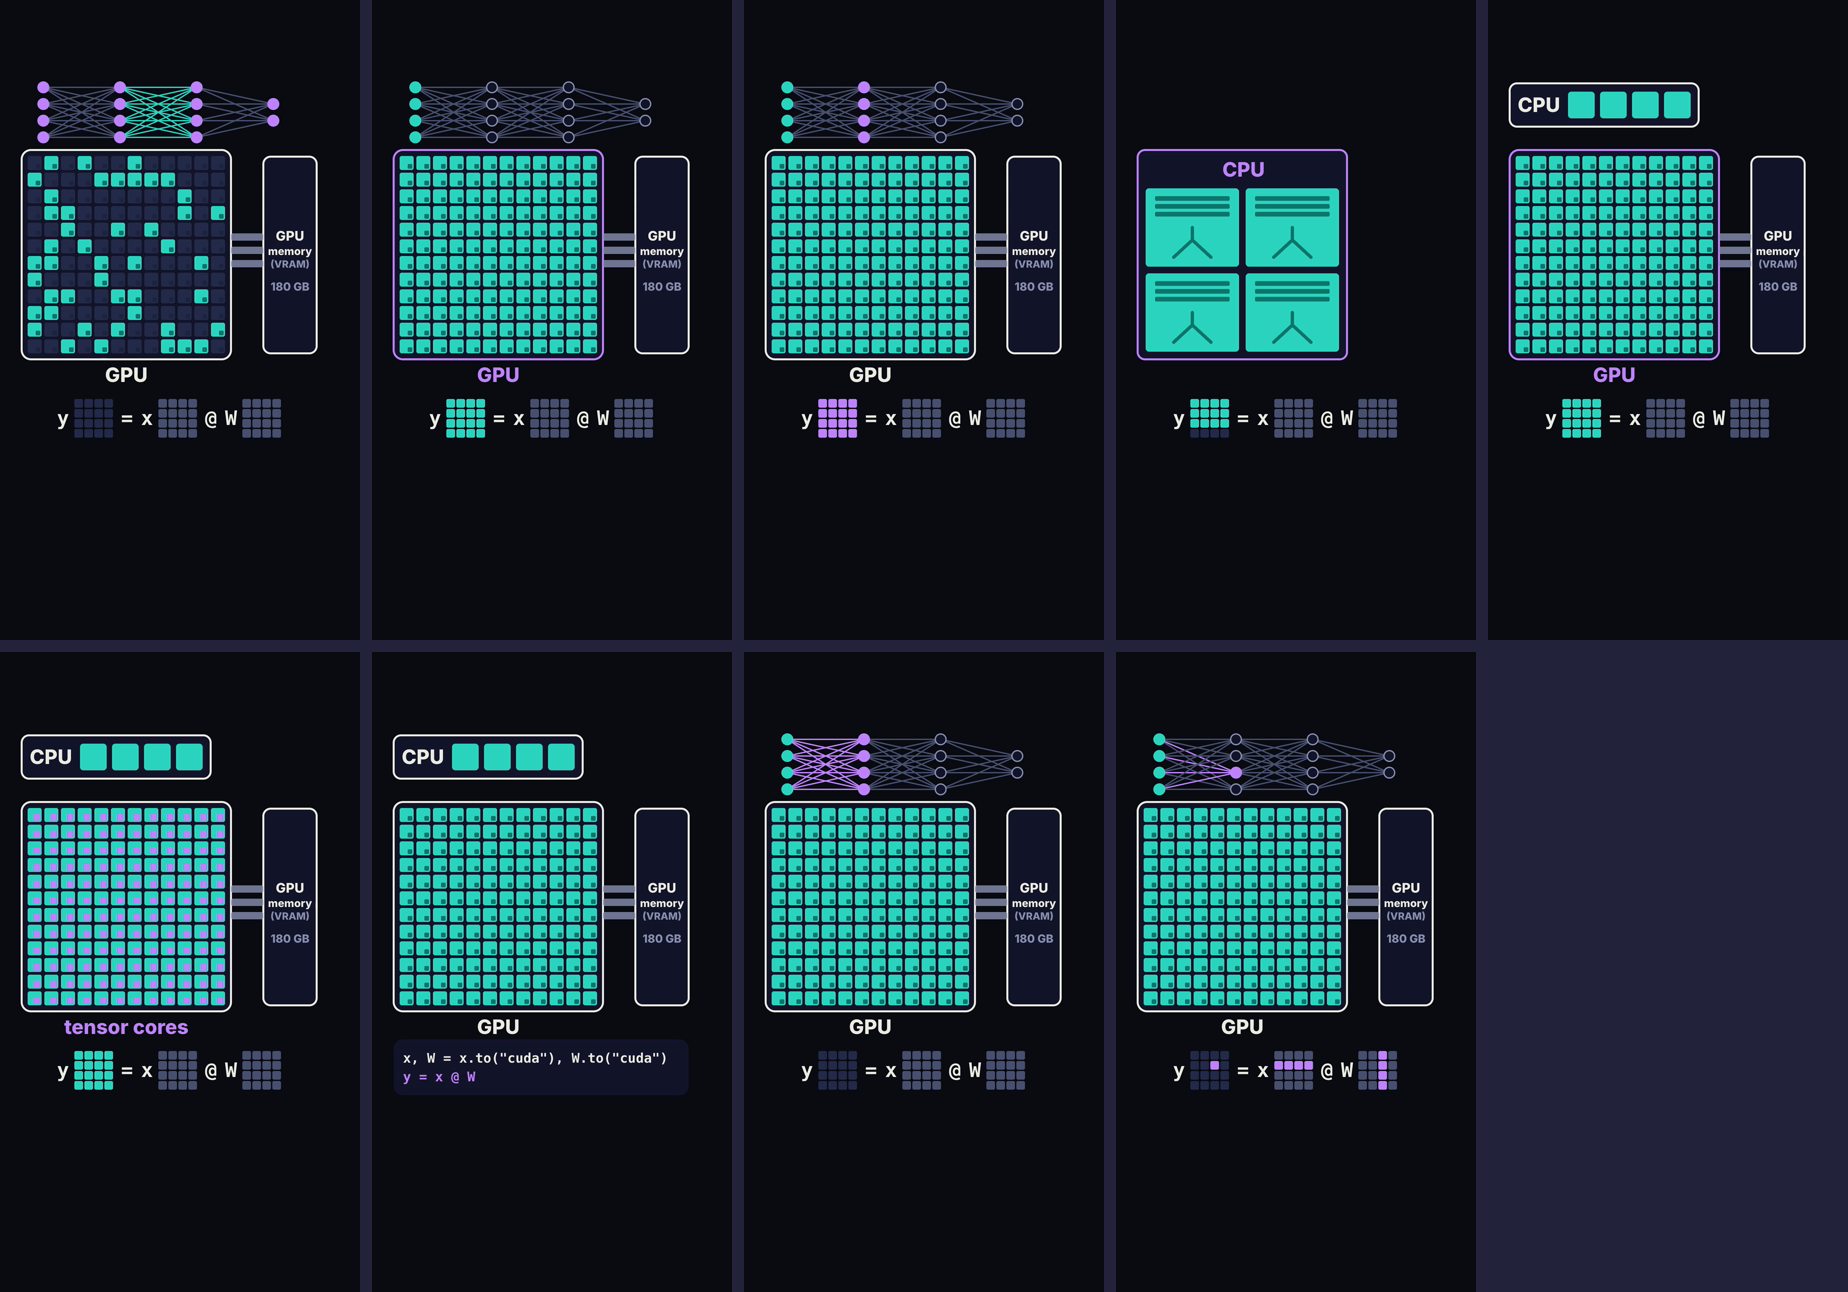
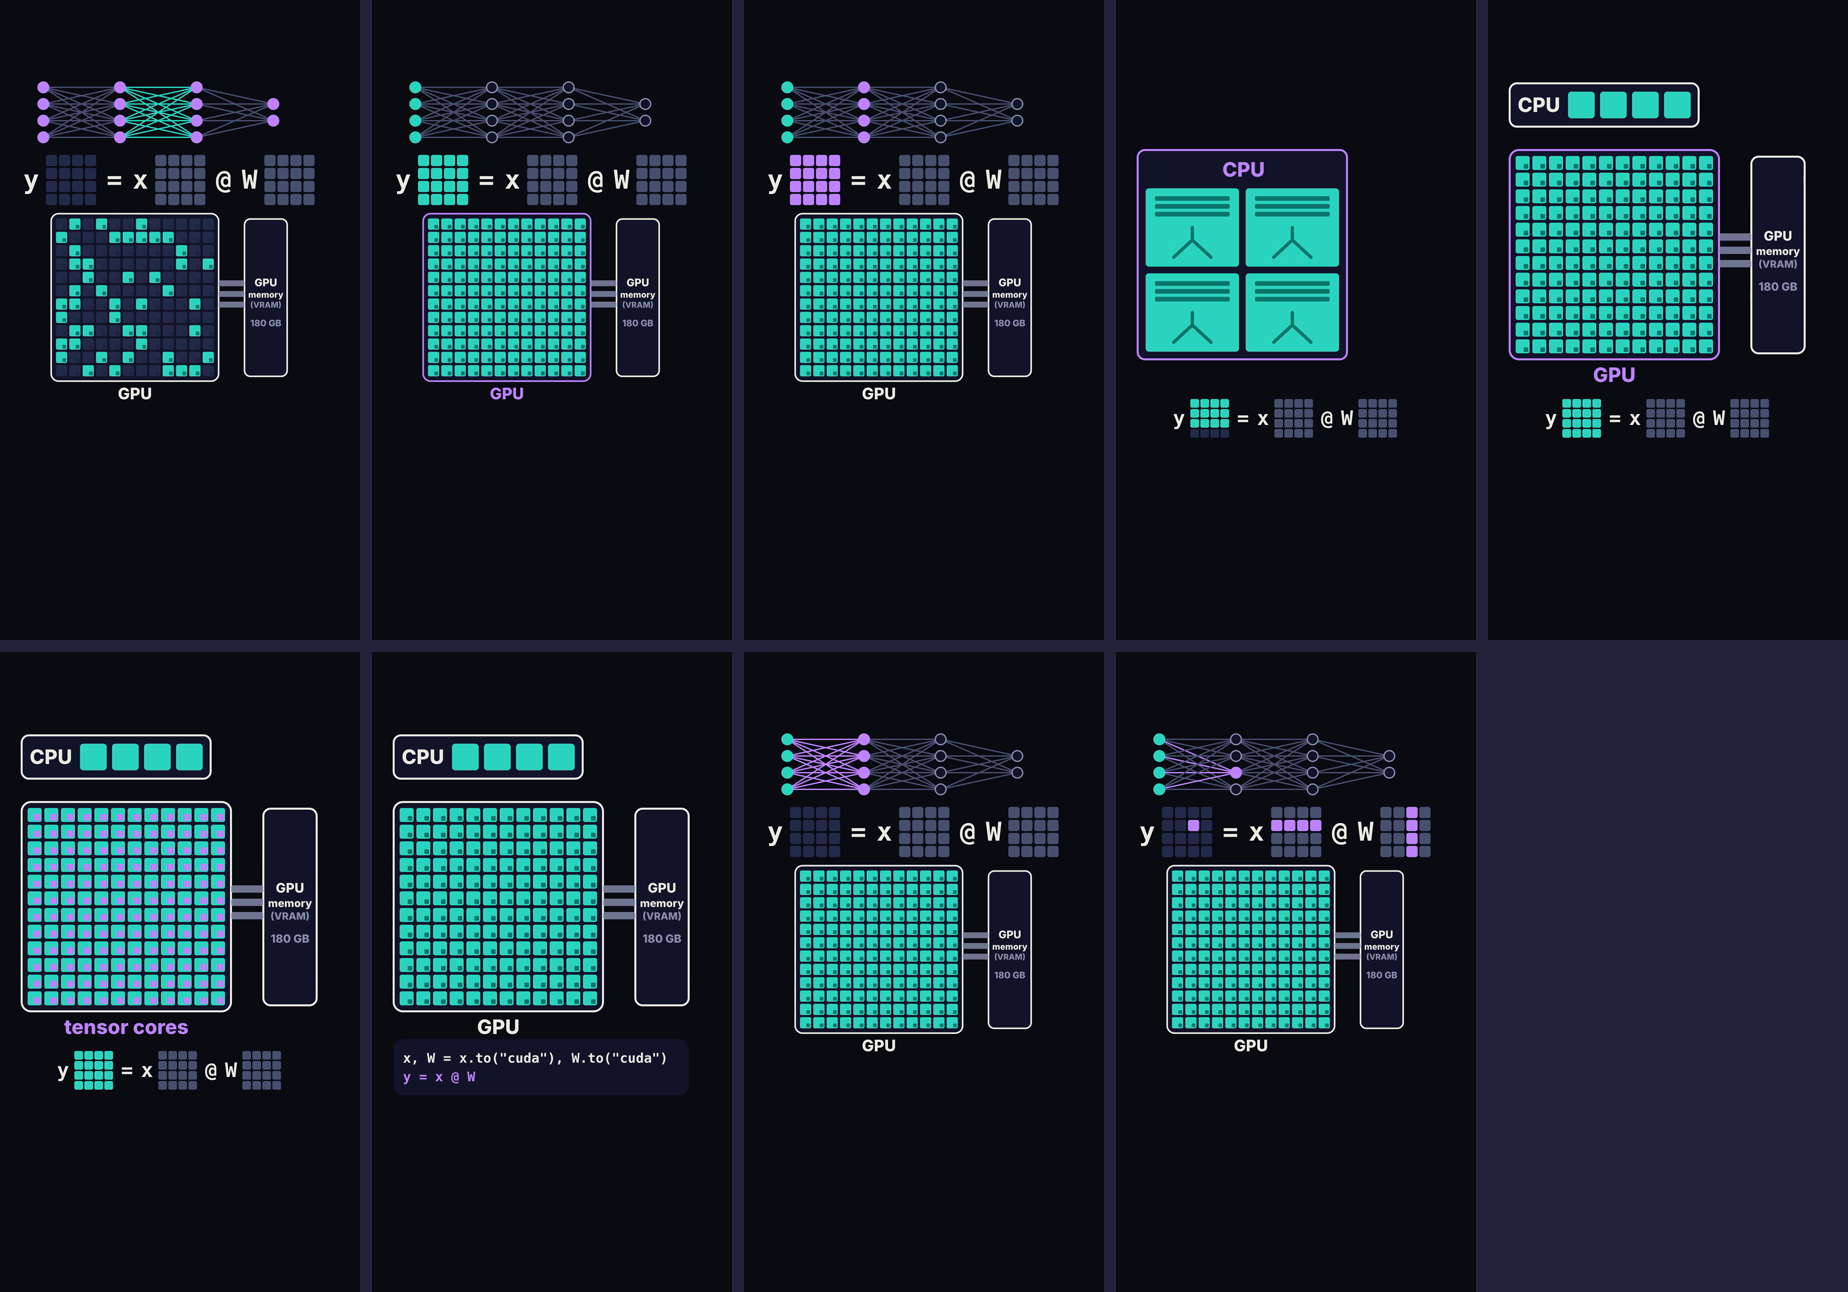
016 ep01 kit: focus layout for beats 1-2 (network over y = x @ W, GPU at 0.8x)

diff --git a/videos/016-understanding-the-gpu/ep01-why-gpus-for-ai/_kit/ep.js b/videos/016-understanding-the-gpu/ep01-why-gpus-for-ai/_kit/ep.js
@@ -18,6 +18,9 @@
 //
 // Ep 1 fields of S (defaults merged into SC.REST, so tools/hf_state_check.js sees them):
 //   net 0..1         the network's opacity
+//   focus 0..1       beats 1–2's layout (1): the network on top, y = x @ W right under it at 1.3×
+//                    (centre y 540), and the whole series chip (grid, memory, title) at 0.8×
+//                    below them (centre y 925); 0 = the series layout, matrices in the bottom slot
 //   flow 0|1         activity: one layer's edges at a time light teal, left to right, on SC.clock
 //                    (like the chip's shimmer; must be 0 in a beat's still end)
 //   cpu4 0..1        the CPU's opacity
@@ -39,7 +42,7 @@
   Object.assign(SC.REST, {
     cpu: 0, queueO: 0, strip: 0,                 // the series CPU, queue and time strip: not in ep 1
     cpu4: 1, big: 0, cores: "1111", cache: 0, branch: 0,
-    mat: 1, fill: "0".repeat(16), pick: -1, wave: 0, net: 0, flow: 0,
+    mat: 1, fill: "0".repeat(16), pick: -1, wave: 0, net: 0, flow: 0, focus: 0,
   });
 
   // The network: 4 columns of nodes; column c's nodes centred on y 337, pitch 50.
@@ -53,14 +56,25 @@
                 core: (i) => ({ x: 89 + (i % 2) * 300, y: 565 + Math.floor(i / 2) * 255, w: 280, h: 235 }) };
   // The matrices: "y ▦ = x ▦ @ W ▦", 672 px wide, centred in the safe width.
   const M = { x0: 171, top: 1197, cell: 26, pitch: 30, size: 116, ty: 1220 };
+  // focus: where the matrices row and the series chip go (centre, scale) when focus = 1
+  const FOCUS = { mat: { c: [507, 1255], to: [507, 540], s: 1.3 }, gpu: { c: [507.5, 805], to: [507.5, 925], s: 0.8 } };
   const ROW = [["y", 0], ["▦y", 52], ["=", 192], ["x", 252], ["▦x", 304], ["@", 444], ["W", 504], ["▦W", 556]];
 
   function mount(root) {
-    const kit = SC.mount(root);
+    // the series chip mounts in its own layer, so `focus` can scale all of it at once
+    const layer = (parent) => {
+      const d = document.createElement("div");
+      d.style.cssText = `position:absolute;left:0;top:0;width:${SC.W}px;height:${SC.H}px;transform-origin:0 0;`;
+      parent.appendChild(d);
+      return d;
+    };
+    const kitDiv = layer(root);
+    const kit = SC.mount(kitDiv);
     const svg = node("svg", { width: SC.W, height: SC.H, viewBox: `0 0 ${SC.W} ${SC.H}` });
     svg.style.cssText = "position:absolute;left:0;top:0;overflow:visible;";
     svg.setAttribute("data-layout-allow-overflow", "");
-    root.insertBefore(svg, kit.code ? kit.code.card : null);
+    root.appendChild(svg);
+    const matDiv = layer(root);                  // the matrix letters, moved with the matrices
 
     // the network: edges first, nodes over them
     const netG = node("g", {}, svg);
@@ -95,7 +109,7 @@
     const letters = [];
     ROW.forEach(([name, dx]) => {
       if (name[0] !== "▦") {
-        const el = label(root, name, { left: M.x0 + dx, top: M.ty, size: 60, width: 36 });
+        const el = label(matDiv, name, { left: M.x0 + dx, top: M.ty, size: 60, width: 36 });
         el.style.fontFamily = "monospace"; el.style.fontWeight = "700";
         letters.push(el);
         return;
@@ -134,6 +148,19 @@
         c.fork.setAttribute("d", `M${fx} ${f0}V${f1}M${fx} ${f1}L${fx - w * 0.2} ${f2}M${fx} ${f1}L${fx + w * 0.2} ${f2}`);
         c.fork.setAttribute("stroke", on ? PAL.dataDeep : PAL.grid); show(c.fork, fo);
       });
+    }
+
+    // translate(t) scale(s) that maps centre c to centre `to` as focus runs 0 → 1
+    const fit = (F, f) => {
+      const s = lerp(1, F.s, f), cx = lerp(F.c[0], F.to[0], f), cy = lerp(F.c[1], F.to[1], f);
+      return [cx - s * F.c[0], cy - s * F.c[1], s];
+    };
+    function drawFocus(S) {
+      const f = clamp01(S.focus);
+      const [mx, my, ms] = fit(FOCUS.mat, f), [gx, gy, gs] = fit(FOCUS.gpu, f);
+      matG.setAttribute("transform", `translate(${mx.toFixed(2)} ${my.toFixed(2)}) scale(${ms.toFixed(4)})`);
+      matDiv.style.transform = `translate(${mx.toFixed(2)}px, ${my.toFixed(2)}px) scale(${ms.toFixed(4)})`;
+      kitDiv.style.transform = `translate(${gx.toFixed(2)}px, ${gy.toFixed(2)}px) scale(${gs.toFixed(4)})`;
     }
 
     function drawMats(S) {
@@ -179,9 +206,9 @@
     function draw(S) {
       S = Object.assign({}, SC.REST, S);
       kit.draw(S);
-      drawNet(S); drawCpu(S); drawMats(S); drawWave(S);
+      drawFocus(S); drawNet(S); drawCpu(S); drawMats(S); drawWave(S);
     }
-    return Object.assign({}, kit, { draw, cpu: { box, cores, label: cpuLab }, mats, letters, net: { g: netG, edges, nodes } });
+    return Object.assign({}, kit, { draw, cpu: { box, cores, label: cpuLab }, mats, letters, net: { g: netG, edges, nodes }, layers: { kit: kitDiv, mat: matDiv } });
   }
 
   // A beat's state at master time: blend two seam states field by field (numbers lerp, the rest switch at u ≥ 0.5).
@@ -194,5 +221,5 @@
     return out;
   }
 
-  window.EP = { mount, mix, M, SMALL, BIG, NET };
+  window.EP = { mount, mix, M, SMALL, BIG, NET, FOCUS };
 })();

diff --git a/videos/016-understanding-the-gpu/ep01-why-gpus-for-ai/_kit/seam.js b/videos/016-understanding-the-gpu/ep01-why-gpus-for-ai/_kit/seam.js
@@ -11,7 +11,7 @@
   const SC = window.SC;
   const ALL = "1".repeat(16), NONE = "0".repeat(16);
   const card = { o: 1, lines: SC.D.code.matmul, typed: Infinity, lit: "at", cursor: 0, cy: 1246 };
-  const NET = { net: 1, cpu4: 0 };
+  const NET = { net: 1, cpu4: 0, focus: 1 };   // beats 1–2: network over y = x @ W, the GPU smaller below
   SC.SEAM = {
     // frame 0: already working; the network's layers firing in turn (the hero), the grid shimmering, y = x @ W empty
     0: { ...NET, flow: 1, lit: SC.D.run.mfu, shimmer: 1, hero: "net", fill: NONE },
@@ -19,7 +19,7 @@
     1: { ...NET, lit: 1, hero: "chip", fill: ALL },
     // "none of them waits on the other": every y cell done at once; the y cells and the layer's outputs the hero
     2: { ...NET, lit: 1, hero: "y", fill: ALL },
-    // "a few at a time": the CPU big in the chip's place (chip, memory, network hidden), 3 of 4 rows done
+    // "a few at a time": focus back to 0 (matrices in the bottom slot); the CPU big in the chip's place (chip, memory, network hidden), 3 of 4 rows done
     3: { lit: 0, chip: 0, hbm: 0, big: 1, cache: 1, branch: 1, hero: "cpu", fill: "1".repeat(12) + "0000" },
     // "all working at once": the CPU back in the top slot, every cell lit, every y cell done
     4: { lit: 1, cache: 1, branch: 1, hero: "chip", fill: ALL },

diff --git a/videos/016-understanding-the-gpu/ep01-why-gpus-for-ai/00_layout/index.html b/videos/016-understanding-the-gpu/ep01-why-gpus-for-ai/00_layout/index.html
@@ -31,7 +31,7 @@
   const kit = EP.mount(document.getElementById("root"));
   function render(t) {
     SC.clock = t;
-    const net = { net: 1, cpu4: 0, lit: 1 };
+    const net = { net: 1, cpu4: 0, focus: 1, lit: 1 };
     if (t < 7) kit.draw(SC.SEAM[Math.floor(t)]);
     else if (t < 8) kit.draw({ ...net, hero: "layer" });
     else kit.draw({ ...net, hero: "ycell", pick: 6, fill: "0000001000000000" });
